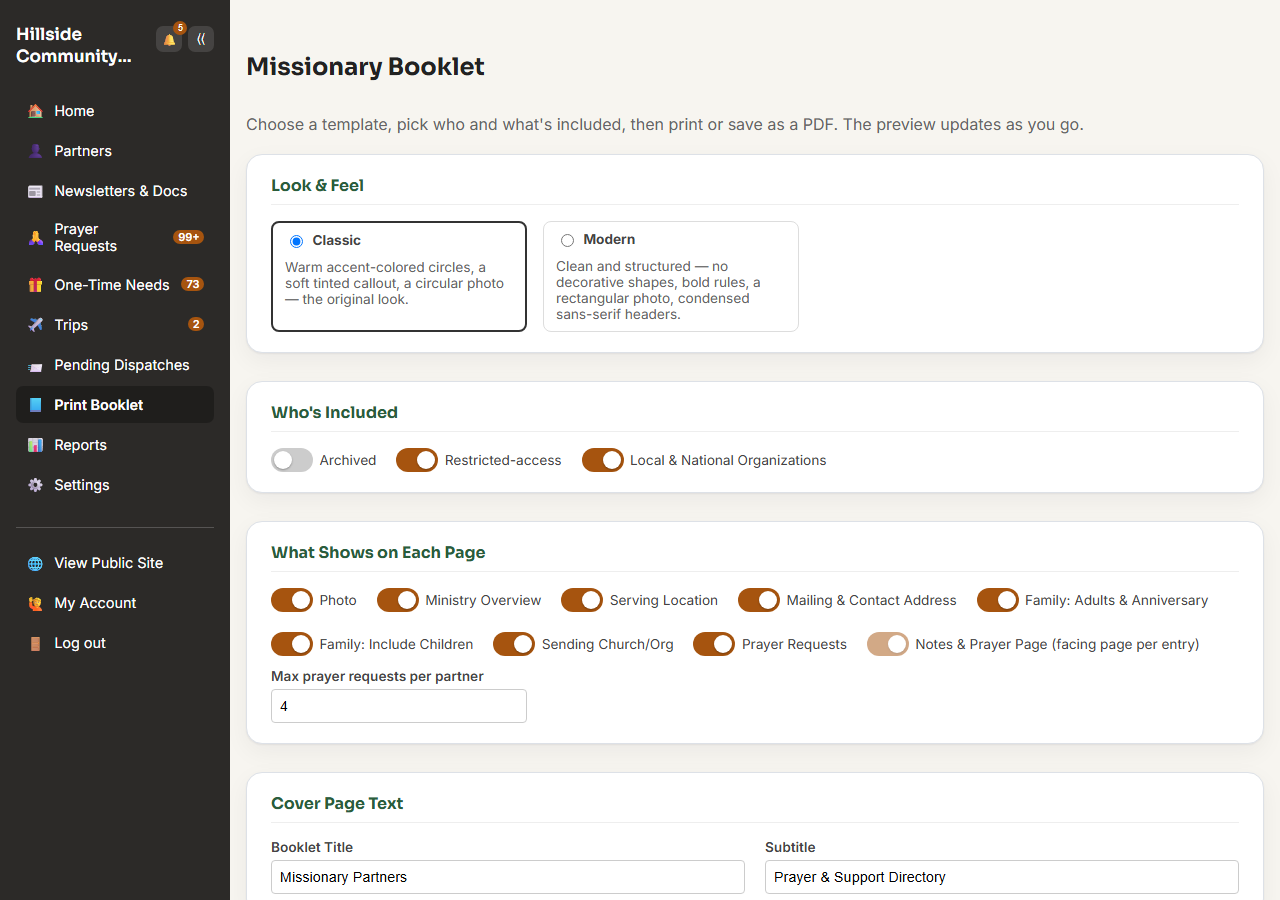
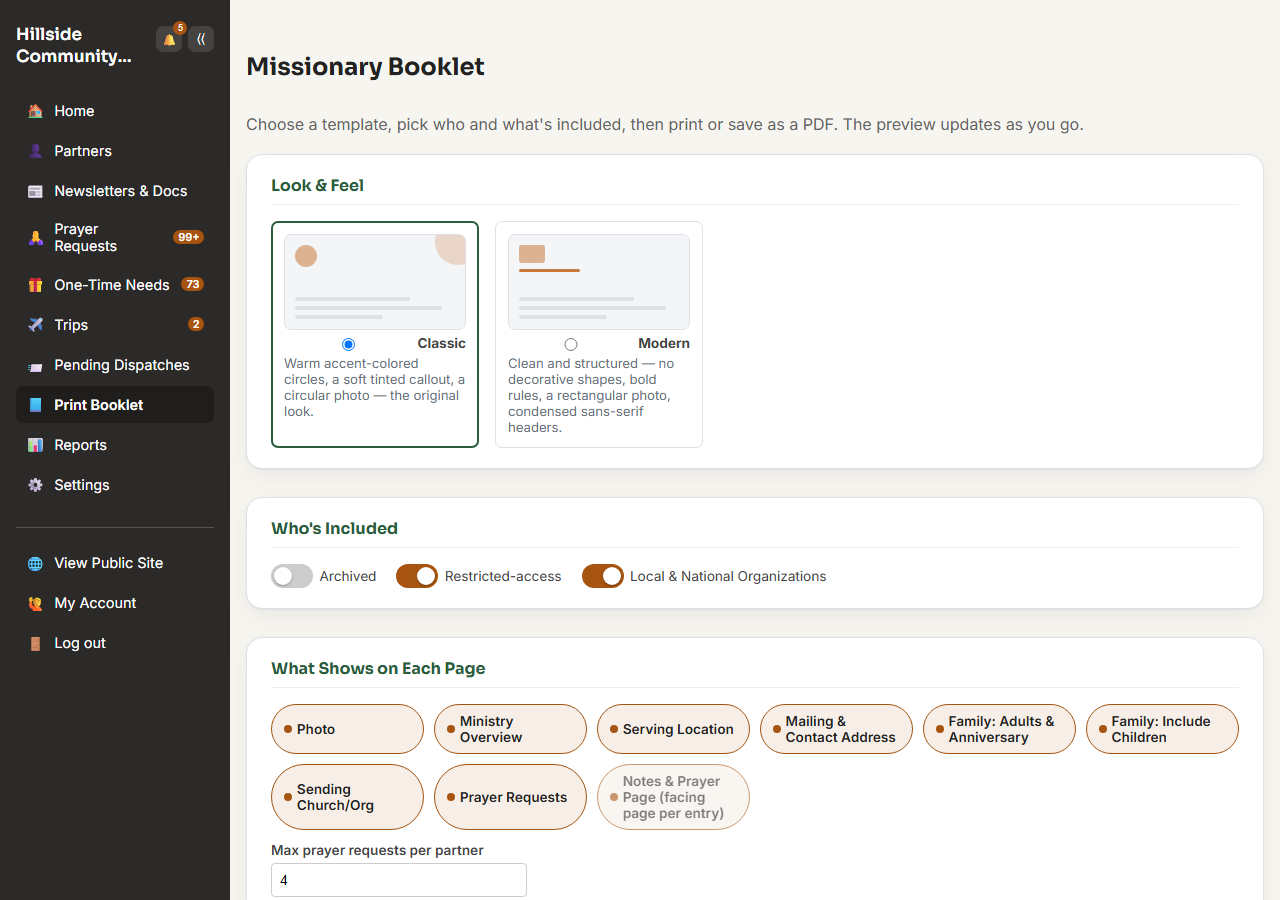
Booklet admin page: visual-treatment pass on the two-pane redesign
Follow-up to the structural two-pane redesign (#346): the project owner
reviewed it and flagged that the actual visual language -- typography,
card styling, decorative shapes -- still read as a default/unredesigned
settings form, separate from the layout reorganization itself. They
worked out the specific direction with a static HTML mockup before this
pass, rather than iterating blind in React again.

- Template picker: each card now shows a small CSS-only visual swatch
  (circular photo + corner accent blob for Classic, rectangular photo +
  bold rule for Modern, no decorative shape) instead of plain text.
  Driven by the same token object templates.js/booklet.css already read
  (shapeStyle/photoShape/frameStyle via data-* attributes) and the real
  resolveAccent() brand color, so a future third template's swatch is
  correct for free -- nothing hand-drawn per template.
- "What Shows on Each Page": a grid of click-to-toggle pill chips
  (colored border/background + dot when on, muted when off) instead of
  a wrapped row of plain checkbox+label pairs. Same toggleField state/
  handlers, same locked-while-Prayer-Requests-is-on behavior -- only the
  rendering changed.
- Each booklet page now has an explicit white background, so it reads as
  a distinct sheet of paper against the preview pane's grey chrome
  rather than blending into the admin page's own background -- correct
  for print too (a page is white paper either way), no print-only
  override needed.
[…]

diff --git a/frontend/src/index.css b/frontend/src/index.css
@@ -1610,6 +1610,219 @@ a {
   }
 }
 
+/* Template picker -- a lightweight CSS-only visual swatch per template
+   (not a live render of the real template) so the choice reads at a
+   glance instead of two identical text-only cards. Driven by the same
+   token object templates.js/booklet.css already read (shapeStyle/
+   photoShape/frameStyle via data-* attributes, --accent via
+   resolveAccent()) -- a future third template's swatch is correct for
+   free, nothing to hand-author here. #346 follow-up: the first redesign
+   pass kept these as plain text cards, which the project owner flagged
+   as still reading like a default/unstyled form even though the page
+   layout itself had changed. */
+.booklet-template-picker {
+  display: flex;
+  flex-wrap: wrap;
+  gap: 1rem;
+}
+.booklet-template-card {
+  display: flex;
+  flex-direction: column;
+  gap: 0.5rem;
+  width: 13rem;
+  padding: 0.75rem;
+  border: 1px solid var(--border-soft, #dde1e7);
+  border-radius: var(--radius-sm, 7px);
+  background: var(--surface, #fff);
+  cursor: pointer;
+}
+.booklet-template-card:hover {
+  border-color: var(--brand-highlight-color, #a6540f);
+}
+/* 1px heavier border on selection would otherwise grow the card by 2px
+   and visibly shift the one beside it -- padding shrinks by the same
+   amount so the card's own outer box size never changes. */
+.booklet-template-card.selected {
+  border: 2px solid var(--brand-color, #2a5d3c);
+  padding: calc(0.75rem - 1px);
+}
+.booklet-template-card-title {
+  display: flex;
+  align-items: center;
+  gap: 0.4rem;
+  font-weight: 700;
+}
+.booklet-template-card-desc {
+  font-size: 0.82rem;
+  font-weight: normal;
+  color: var(--muted-text, #677080);
+}
+.booklet-template-swatch {
+  position: relative;
+  height: 96px;
+  padding: 10px;
+  display: flex;
+  flex-direction: column;
+  gap: 6px;
+  border-radius: var(--radius-sm, 7px);
+  background: var(--surface-2, #f4f5f7);
+  border: 1px solid var(--border-soft, #dde1e7);
+  overflow: hidden;
+}
+/* Classic's shapeStyle: "circles" token -- the same corner-accent
+   treatment booklet.css's own .booklet-shape uses on the real page,
+   scaled down. Modern's shapeStyle: "none" leaves this hidden. */
+.booklet-template-swatch-shape {
+  display: none;
+  position: absolute;
+  top: -16px;
+  right: -16px;
+  width: 46px;
+  height: 46px;
+  border-radius: 50%;
+  background: var(--accent);
+  opacity: 0.25;
+}
+[data-shape-style="circles"] .booklet-template-swatch-shape {
+  display: block;
+}
+/* photoShape: circle (Classic) vs rect (Modern), same token booklet.css
+   reads for the real .booklet-photo. */
+.booklet-template-swatch-photo {
+  width: 22px;
+  height: 22px;
+  flex-shrink: 0;
+  background: var(--accent);
+  opacity: 0.55;
+  border-radius: 50%;
+}
+[data-photo-shape="rect"] .booklet-template-swatch-photo {
+  border-radius: 3px;
+  width: 26px;
+  height: 18px;
+}
+/* frameStyle: "rule" (Modern) -- the bold accent rule booklet.css anchors
+   the real cover/back-cover to. "none" (Classic) leaves this hidden. */
+.booklet-template-swatch-rule {
+  display: none;
+  height: 3px;
+  width: 38%;
+  border-radius: 2px;
+  background: var(--accent);
+}
+[data-frame-style="rule"] .booklet-template-swatch-rule {
+  display: block;
+}
+.booklet-template-swatch-lines {
+  display: flex;
+  flex-direction: column;
+  gap: 5px;
+  margin-top: auto;
+}
+.booklet-template-swatch-lines span {
+  display: block;
+  height: 4px;
+  border-radius: 2px;
+  background: var(--border-soft, #dde1e7);
+}
+.booklet-template-swatch-lines span:nth-child(1) {
+  width: 72%;
+}
+.booklet-template-swatch-lines span:nth-child(2) {
+  width: 92%;
+}
+.booklet-template-swatch-lines span:nth-child(3) {
+  width: 55%;
+}
+
+/* "What Shows on Each Page" -- a grid of click-to-toggle pill chips
+   instead of a wrapped row of plain checkbox+label pairs (#346
+   follow-up). Each chip is a real <label>/<input type="checkbox"> pair
+   (same toggleField handler, same checked/disabled state as before) --
+   only the rendering changed, so keyboard/screen-reader behavior is
+   unchanged. The checkbox itself is visually hidden (not display: none,
+   which would drop it from the accessibility tree) rather than left
+   showing the app-wide toggle-switch skin (.admin-shell
+   input[type="checkbox"] above) -- the whole chip is this control's own
+   on/off indicator here, a switch rendered inside it too would be a
+   second, redundant indicator. */
+.booklet-field-grid {
+  display: grid;
+  /* 150px (not a rounder 190px+) specifically so this reads as a real
+     multi-column grid rather than a single stacked list inside the
+     controls column's own width (minmax(300px, 420px), see
+     .booklet-layout above) -- confirmed by screenshot at that column's
+     actual rendered width, not assumed. */
+  grid-template-columns: repeat(auto-fill, minmax(150px, 1fr));
+  gap: 0.6rem;
+}
+.booklet-field-chip {
+  display: flex !important;
+  flex-direction: row !important;
+  align-items: center;
+  gap: 0.5rem;
+  padding: 0.5rem 0.75rem;
+  border: 1px solid var(--border-soft, #dde1e7);
+  border-radius: var(--radius-pill, 999px);
+  background: var(--surface, #fff);
+  cursor: pointer;
+  font-size: 0.85rem;
+  font-weight: 600;
+  color: var(--muted-text, #677080);
+  transition:
+    border-color 0.15s ease,
+    background-color 0.15s ease,
+    color 0.15s ease;
+}
+.booklet-field-chip:hover {
+  border-color: var(--brand-highlight-color, #a6540f);
+}
+.booklet-field-chip input[type="checkbox"] {
+  /* Visually hidden, not display: none -- stays a real, focusable,
+     screen-reader-announced checkbox. Beats the app-wide toggle-switch
+     skin on specificity by appearing later in this file (same selector
+     weight, source order decides), but ::before is reset explicitly too
+     rather than relying on that alone. */
+  position: absolute;
+  width: 1px;
+  height: 1px;
+  min-width: 0;
+  padding: 0;
+  margin: -1px;
+  overflow: hidden;
+  clip: rect(0, 0, 0, 0);
+  white-space: nowrap;
+  border: 0;
+  background: transparent;
+}
+.booklet-field-chip input[type="checkbox"]::before {
+  content: none;
+}
+.booklet-field-chip-dot {
+  width: 8px;
+  height: 8px;
+  flex-shrink: 0;
+  border-radius: 50%;
+  background: var(--border-soft, #dde1e7);
+  transition: background-color 0.15s ease;
+}
+.booklet-field-chip.on {
+  border-color: var(--brand-highlight-color, #a6540f);
+  background: color-mix(in srgb, var(--brand-highlight-color, #a6540f) 10%, var(--surface, #fff));
+  color: #222;
+}
+.booklet-field-chip.on .booklet-field-chip-dot {
+  background: var(--brand-highlight-color, #a6540f);
+}
+.booklet-field-chip:has(input:focus-visible) {
+  outline: 2px solid var(--brand-highlight-color, #a6540f);
+  outline-offset: 2px;
+}
+.booklet-field-chip.locked {
+  opacity: 0.6;
+  cursor: not-allowed;
+}
+
 /* 8.5in (a real US Letter page width) both ways -- min-width, not just
    max-width -- deliberately not shrunk to fit a narrow container, since
    this previews actual print proportions. overflow-x: auto on the outer

diff --git a/frontend/src/pages/AdminBooklet.jsx b/frontend/src/pages/AdminBooklet.jsx
@@ -640,36 +640,52 @@ export default function AdminBooklet() {
           <div className="admin-form">
             <div className="admin-section">
               <h3>Look &amp; Feel</h3>
-              <div className="admin-checkbox-row" style={{ gap: "1rem", flexWrap: "wrap" }}>
-                {TEMPLATE_OPTIONS.map((t) => (
-                  <label
-                    key={t.value}
-                    style={{
-                      flexDirection: "column",
-                      alignItems: "flex-start",
-                      border: template === t.value ? "2px solid #333" : "1px solid #ddd",
-                      borderRadius: "8px",
-                      padding: "0.6rem 0.75rem",
-                      maxWidth: "16rem",
-                      cursor: "pointer",
-                    }}
-                  >
-                    <span
-                      style={{ display: "flex", alignItems: "center", gap: "0.4rem", fontWeight: "bold" }}
-                    >
-                      <input
-                        type="radio"
-                        name="booklet-template"
-                        checked={template === t.value}
-                        onChange={() => setTemplate(t.value)}
-                      />
-                      {t.label}
-                    </span>
-                    <span style={{ fontSize: "0.85rem", color: "#666", marginTop: "0.25rem" }}>
-                      {t.description}
-                    </span>
-                  </label>
-                ))}
+              <div className="booklet-template-picker">
+                {TEMPLATE_OPTIONS.map((t) => {
+                  // A lightweight visual hint, not a live render of the real
+                  // template -- plain CSS shapes driven by the same token
+                  // object templates.js/booklet.css already use
+                  // (shapeStyle/photoShape/frameStyle), so a future
+                  // template's swatch is correct for free rather than
+                  // needing its own hand-drawn entry here. accent reuses
+                  // resolveAccent() (ChurchSettings.primaryColor, same as
+                  // the real booklet) so the swatch reflects the church's
+                  // actual brand color, not a hardcoded hex.
+                  const tpl = getTemplate(t.value);
+                  const accent = resolveAccent(tpl, primaryColor, 0);
+                  const selected = template === t.value;
+                  return (
+                    <label key={t.value} className={`booklet-template-card${selected ? " selected" : ""}`}>
+                      <div
+                        className="booklet-template-swatch"
+                        style={{ "--accent": accent }}
+                        data-shape-style={tpl.tokens.shapeStyle}
+                        data-photo-shape={tpl.tokens.photoShape}
+                        data-frame-style={tpl.tokens.frameStyle}
+                        aria-hidden="true"
+                      >
+                        <span className="booklet-template-swatch-shape" />
+                        <span className="booklet-template-swatch-photo" />
+                        <span className="booklet-template-swatch-rule" />
+                        <span className="booklet-template-swatch-lines">
+                          <span />
+                          <span />
+                          <span />
+                        </span>
+                      </div>
+                      <span className="booklet-template-card-title">
+                        <input
+                          type="radio"
+                          name="booklet-template"
+                          checked={selected}
+                          onChange={() => setTemplate(t.value)}
+                        />
+                        {t.label}
+                      </span>
+                      <span className="booklet-template-card-desc">{t.description}</span>
+                    </label>
+                  );
+                })}
               </div>
             </div>
 
@@ -705,21 +721,27 @@ export default function AdminBooklet() {
 
             <div className="admin-section">
               <h3>What Shows on Each Page</h3>
-              <div className="admin-checkbox-row">
+              <div className="booklet-field-grid">
                 {FIELD_OPTIONS.map(([key, label, tooltip]) => {
                   // Prayer requests now print at the top of the Notes &
                   // Prayer page itself, so that page can't be turned off
                   // while they're showing -- there'd be nowhere left to
                   // print them.
                   const lockedOn = key === "showNotesPage" && fields.showPrayerRequests;
+                  const on = fields[key];
                   return (
-                    <label key={key} title={lockedOn ? "Required while Prayer Requests is on" : tooltip}>
+                    <label
+                      key={key}
+                      className={`booklet-field-chip${on ? " on" : ""}${lockedOn ? " locked" : ""}`}
+                      title={lockedOn ? "Required while Prayer Requests is on" : tooltip}
+                    >
                       <input
                         type="checkbox"
-                        checked={fields[key]}
+                        checked={on}
                         disabled={lockedOn}
                         onChange={() => toggleField(key)}
                       />
+                      <span className="booklet-field-chip-dot" aria-hidden="true" />
                       {label}
                     </label>
                   );

diff --git a/frontend/src/styles/booklet.css b/frontend/src/styles/booklet.css
@@ -93,6 +93,12 @@ body {
   overflow: hidden;
   break-after: page;
   padding: 0.25in;
+  /* A real page is white paper -- correct for print, and on screen it's
+     also what actually makes each page read as a distinct sheet against
+     .booklet-preview-pane's grey admin-chrome background (index.css)
+     rather than blending into it. Harmless at print: this is the page's
+     own background either way, nothing added on top of it. */
+  background: #fff;
 }
 
 /* Decorative corner shapes -- Classic's `shapeStyle: "circles"` token.
